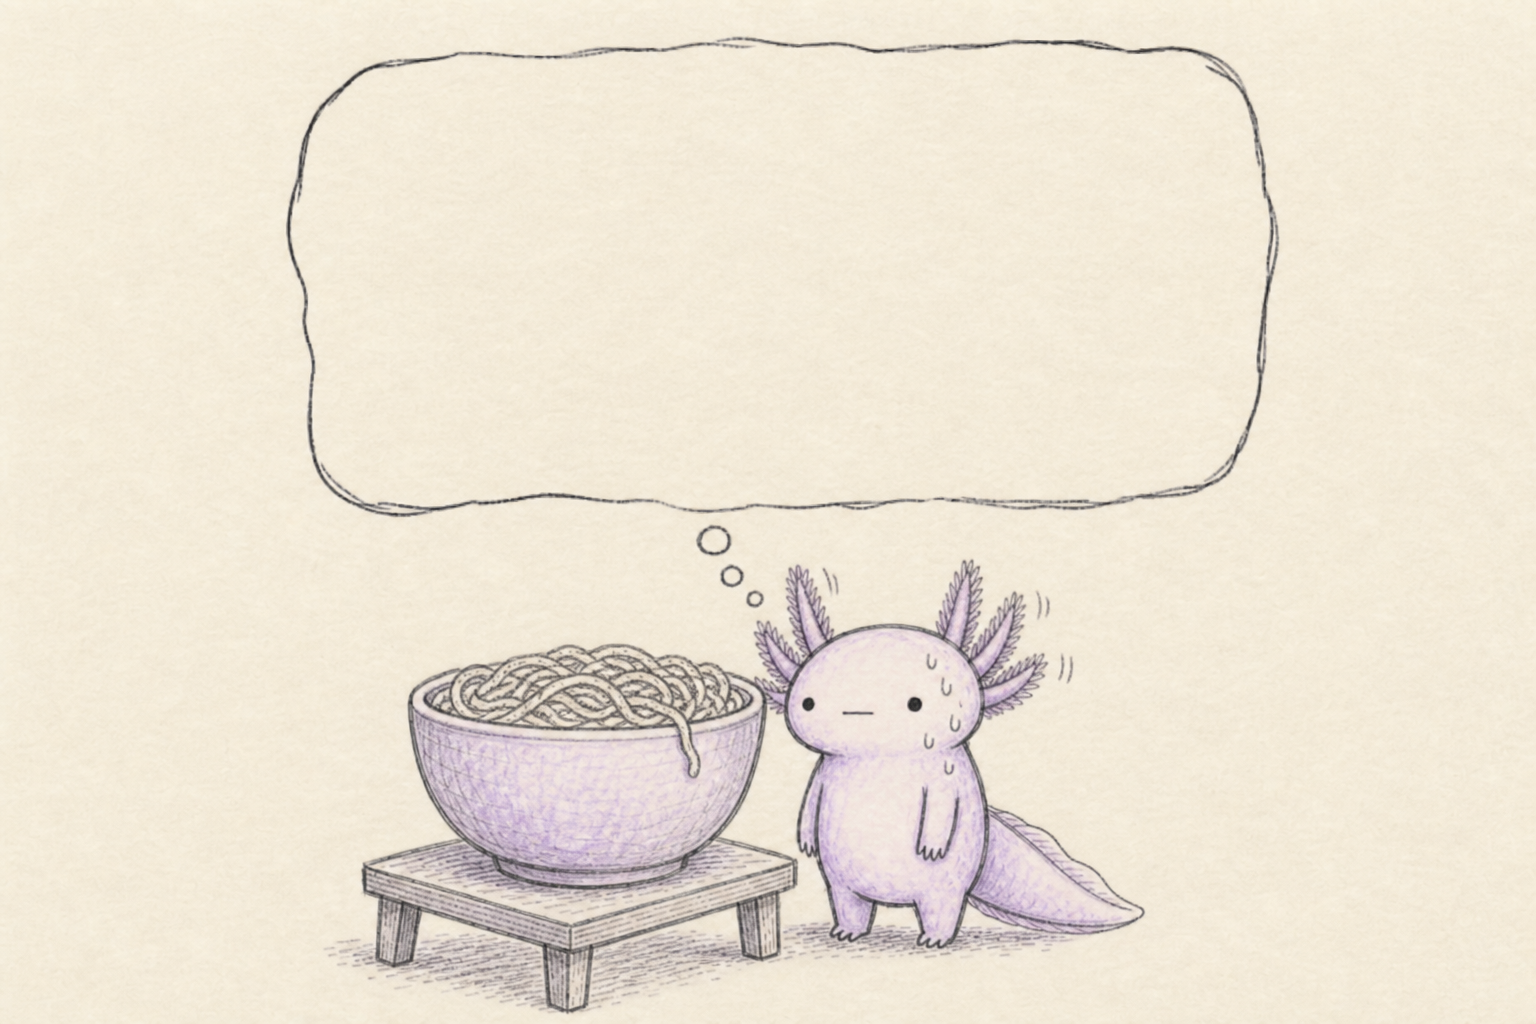
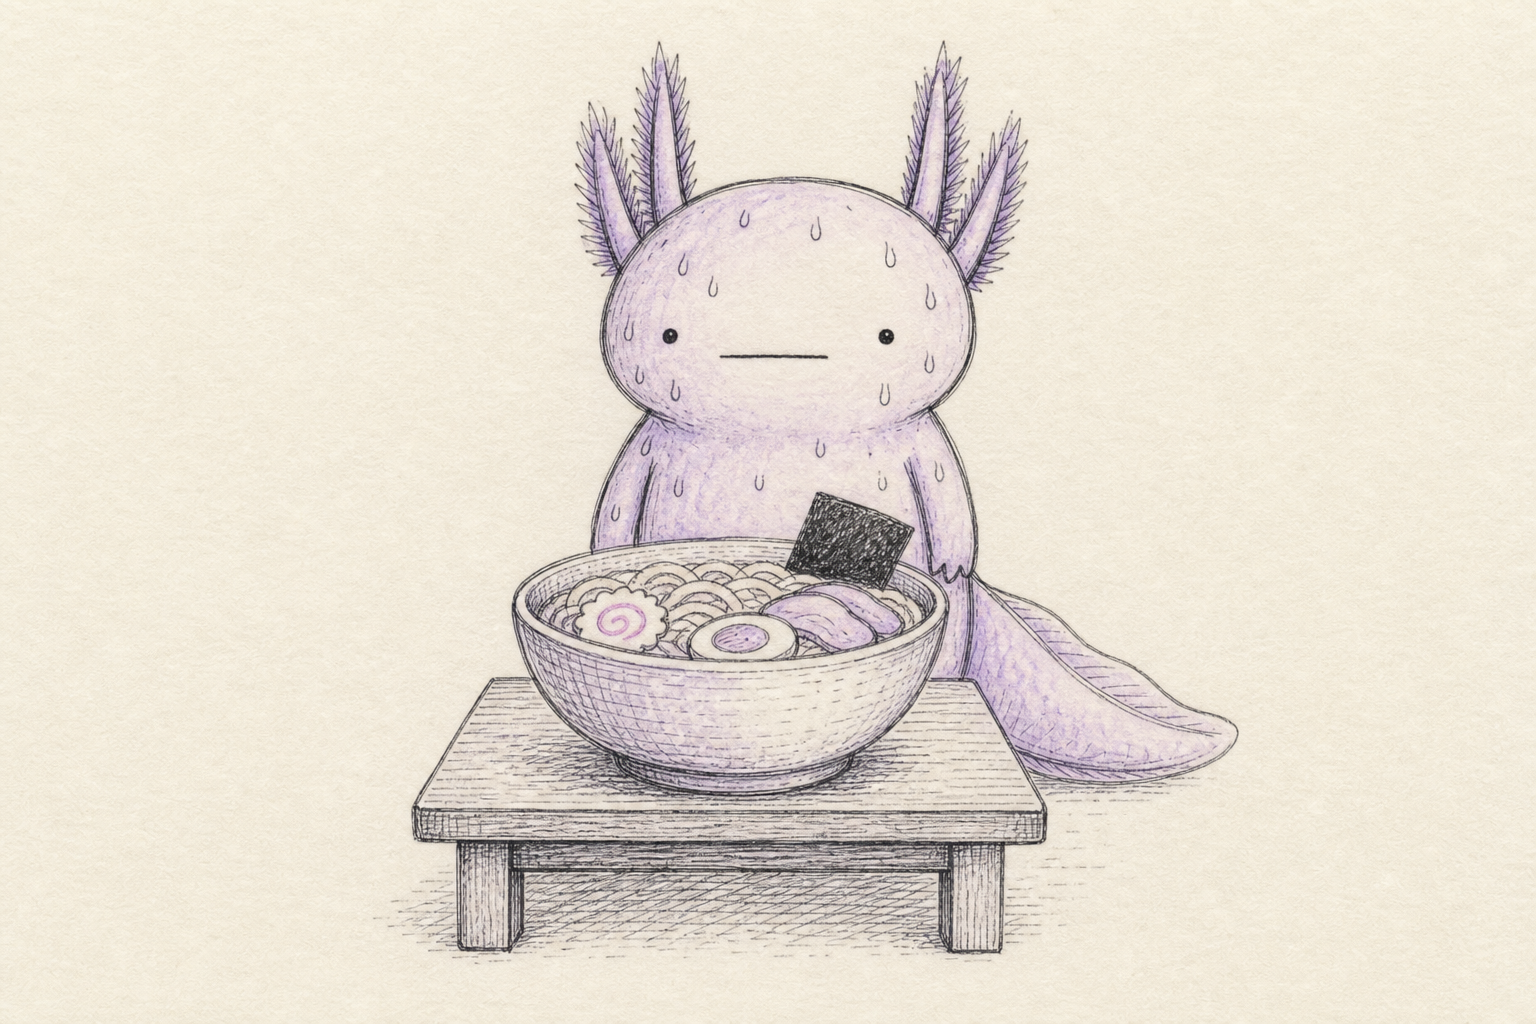
Rebuild canonical standing pose without thought cloud
Standard 標準立姿: centered on paper, locked face, no cloud.
Thought cloud optional only for 發呆 (day1). Regenerate PNGs and docs.

diff --git a/docs/axo-layout-template-zh-TW.md b/docs/axo-layout-template-zh-TW.md
@@ -1,68 +1,62 @@
-# Axo 官方構圖模板（所有貼文必用）
+# Axo 構圖模板
 
-**生效：** 2026-06-01 · **狀態：** 鎖定，不可更換版型
+**更新：** 2026-06-01
 
 ---
 
-## 唯一標準構圖
-
-每一則 IG（含 Day 2、Day 3…）都必須使用 **同一張畫紙框架**：
-
-```
-┌─────────────────────────┐
-│   空白思考雲（必空）      │  ← 上方約 40%，雲內無字、無 ...
-│                         │
-├─────────────────────────┤
-│   Axo（偏小，在下方）     │  ← 下方約 60%，只改姿勢／道具
-│   + 場景（麵碗等）        │
-└─────────────────────────┘
-```
+## A. 標準立姿（預設 · 多數貼文）
 
 **主檔（視覺真源）：**  
 `assets/axo/pen/png/axo-pen-canonical.png`  
 `assets/axo/pen/axo-pen-canonical.svg`
 
-**布局參考（封存）：** `png/reference/axo-pen-day1-layout-master.png`
+```
+┌─────────────────────────┐
+│      畫紙底色            │
+│   Axo 居中、標準立姿      │  ← 無思考雲
+│   鎖定眼嘴               │
+└─────────────────────────┘
+```
+
+- 用於：介紹 Axo、Day 2 麵碗、多數日常帖  
+- **臉：** 見 [`axo-face-locked-zh-TW.md`](./axo-face-locked-zh-TW.md)  
+- 新姿勢：複製 canonical，**只改**身體／道具，不改眼嘴、不加雲（除非選 B）
 
 ---
 
-## 臉部規格（永久鎖定）
+## B. 發呆帖（可選 · 有空白思考雲）
 
-| 部位 | 規格 |
-|------|------|
-| 眼睛 | 極小黑點、**眼距偏寬** — 見 [`axo-face-locked-zh-TW.md`](./axo-face-locked-zh-TW.md) |
-| 嘴巴 | **短直橫線 `_`**（所有貼文相同，含介紹、發呆、Day 2） |
+**僅在需要「發呆」視覺時使用，非每篇必備。**
 
-**禁止** 改用 `w` 嘴、張口、或其他嘴型（除非品牌方書面解禁）。
+`assets/axo/pen/axo-pen-day1-blank-stare.svg` · `png/axo-pen-day1.png`
+
+```
+┌─────────────────────────┐
+│   空白思考雲（必空）      │
+│   Axo 偏小在下方          │
+└─────────────────────────┘
+```
+
+- 雲內：**無字、無 `...`**  
+- 臉：與標準立姿**相同**（鎖定眼嘴）
 
 ---
 
 ## 如何做新的一篇
 
-1. 複製 `axo-pen-canonical.svg`  
-2. **保留**畫紙 + 空白思考雲（勿刪、勿加字進雲裡）  
-3. **只改**下方 `#axo-slot` 區塊：姿勢、道具、表情（汗、鰓直立等）  
-4. 用 `axo-pen-canonical.png` 當 reference 出 PNG，**禁止**換成居中大圖構圖  
-
----
-
-## 檔案對照
-
-| 檔案 | 用途 |
-|------|------|
-| `axo-pen-canonical.*` | 官方模板 · 介紹 Axo、預設貼文 |
-| `axo-pen-day1-blank-stare.svg` | 發呆帖（`_` 嘴） |
-| `axo-pen-day1.png` | 發呆帖 PNG |
-| `axo-pen-day2.png` | Day 2 麵碗（同模板） |
+1. 預設從 **`axo-pen-canonical`** 出發  
+2. Reference `axo-pen-canonical.png` + 鎖定臉  
+3. 只改姿勢／場景；**色票**見 color-consistency 文件  
+4. 若要發呆梗 → 改用 **B** 模板，不要強制每篇加雲  
 
 ---
 
 ## 禁止
 
-- ❌ 角色居中填滿畫面（舊版標準立姿構圖）  
-- ❌ 沒有思考雲的貼文  
-- ❌ 思考雲裡寫字（字在 caption，不在雲裡）  
+- ❌ 更改鎖定眼嘴  
+- ❌ 漂移畫紙色／水彩色  
+- ❌ 思考雲裡寫字  
 
 ---
 
-*色票見 [`axo-color-consistency-zh-TW.md`](./axo-color-consistency-zh-TW.md)*
+*色票：[`axo-color-consistency-zh-TW.md`](./axo-color-consistency-zh-TW.md)*

diff --git a/docs/axo-face-locked-zh-TW.md b/docs/axo-face-locked-zh-TW.md
@@ -13,13 +13,13 @@
 | **嘴巴** | **一條短直橫線** `_`（水平、居中、無弧度） | `w` 嘴、張口、橢圓嘴、牙齒 |
 | **表情** | 死板、空白、發呆、無情緒 | 笑、哭、驚訝 o 嘴（除非品牌方書面解禁） |
 
-### SVG 數值（400×640 模板內 Axo 頭部）
+### SVG 數值（標準立姿 400×520）
 
 | 元素 | 值 |
 |------|-----|
-| 左眼 | `cx="170" cy="164" r="2.5"` |
-| 右眼 | `cx="230" cy="164" r="2.5"` |
-| 嘴 | `M 192 200 L 208 200` stroke 2px |
+| 左眼 | `cx="170" cy="168" r="2.5"` |
+| 右眼 | `cx="230" cy="168" r="2.5"` |
+| 嘴 | `M 192 204 L 208 204` stroke 2px |
 
 > 換姿勢時**只移動身體**，眼嘴相對頭部位置與形狀不變。
 
@@ -27,8 +27,9 @@
 
 ## 與構圖模板關係
 
-- **版型：** 永遠「空白思考雲 + 下方小 Axo」（見 layout template）  
-- **臉：** 永遠本文件眼嘴 — **Post 1 介紹、Post 2 發呆、Day 2 麵碗…全部相同**
+- **標準立姿：** 居中、**無思考雲**（見 layout template A）  
+- **發呆帖（可選）：** 可加空白思考雲（模板 B）  
+- **臉：** 所有貼文永遠本文件眼嘴
 
 ---
 

diff --git a/docs/axo-color-consistency-zh-TW.md b/docs/axo-color-consistency-zh-TW.md
@@ -13,7 +13,7 @@
 **主參考檔（視覺真源）：**  
 `assets/axo/pen/png/axo-pen-canonical.png`（**布局 + 鎖定眼嘴**，見 `axo-face-locked-zh-TW.md`）
 
-**構圖規則（必守）：** [`axo-layout-template-zh-TW.md`](./axo-layout-template-zh-TW.md)
+**構圖：** 預設標準立姿（無思考雲）— [`axo-layout-template-zh-TW.md`](./axo-layout-template-zh-TW.md)
 
 ---
 
@@ -50,11 +50,14 @@
 
 ---
 
-## 五、構圖模板（已鎖定，不可變）
+## 五、構圖
 
-**所有貼文唯一版型：** 上方空白思考雲 + 下方偏小 Axo（見 layout template 文件）。
+| 類型 | 說明 |
+|------|------|
+| **標準立姿** | 居中、畫紙、**無思考雲** — 多數貼文 |
+| **發呆（可選）** | 可加空白思考雲 — 僅特定帖 |
 
-構圖不可變；**顏色與筆觸不可變**；僅可改下方 Axo 的姿勢／道具。
+**顏色與筆觸不可變**；眼嘴不可變。
 
 ---
 

diff --git a/README.md b/README.md
@@ -9,8 +9,8 @@
 
 ## Axo (mascot)
 
-**主視覺 v3：** [`assets/axo/pen/png/axo-pen-canonical.png`](assets/axo/pen/png/axo-pen-canonical.png)  
-**構圖：** [`docs/axo-layout-template-zh-TW.md`](docs/axo-layout-template-zh-TW.md) · **眼嘴鎖定：** [`docs/axo-face-locked-zh-TW.md`](docs/axo-face-locked-zh-TW.md)
+**標準立姿（主檔）：** [`assets/axo/pen/png/axo-pen-canonical.png`](assets/axo/pen/png/axo-pen-canonical.png) — 畫紙、鎖定眼嘴、**無思考雲**  
+**發呆帖（可選雲）：** `axo-pen-day1.png` · **構圖：** [`docs/axo-layout-template-zh-TW.md`](docs/axo-layout-template-zh-TW.md) · **眼嘴：** [`docs/axo-face-locked-zh-TW.md`](docs/axo-face-locked-zh-TW.md)
 
 v2 平面向量（封存）：[`assets/axo/`](assets/axo/)
 

diff --git a/docs/axo-style-v3-pen-zh-TW.md b/docs/axo-style-v3-pen-zh-TW.md
@@ -20,7 +20,7 @@
 | **線條** | 墨色 `#2A2420`，**略歪、略抖**，線寬約 2.5–3px，有輕重 |
 | **上色** | 淡薰衣草**水彩暈染** `#E8D8E8`（opacity ~55%），不是實心向量填色 |
 | **眼與嘴** | **永久鎖定** → [`axo-face-locked-zh-TW.md`](./axo-face-locked-zh-TW.md) |
-| **官方主檔** | `png/axo-pen-canonical.png`（空白思考雲 + 下方小 Axo + **鎖定臉**） |
+| **官方主檔** | `png/axo-pen-canonical.png`（**標準立姿** · 畫紙 · **鎖定臉** · 無思考雲） |
 | **修改方式** | 以主檔為 reference **只改指定部位**（如只縮眼、只加思考雲），禁止整張換風格 |
 | **腮紅** | 不要 |
 | **頭身** | 三頭身 |

diff --git a/docs/ig-launch-zh-TW.md b/docs/ig-launch-zh-TW.md
@@ -28,7 +28,7 @@
 |------|------|
 | **用戶名** | `@dozeify` 或 `@dozeify.axo`（越短越好記） |
 | **顯示名稱** | Dozeify · Axo |
-| **大頭貼** | `assets/axo/pen/axo-pen-canonical.svg` 或 `pen/png/axo-pen-canonical.png` 裁 320×320（**保留畫紙色**） |
+| **大頭貼** | `pen/png/axo-pen-canonical.png` 裁 Axo 臉部 320×320（標準立姿、無雲） |
 | **Bio（繁中範例）** | 再生式休息｜Axo 什麼都沒做，但你可以。🫠 |
 | **Bio（英一句）** | Regenerative rest. Doing nothing, together. |
 | **連結** | 先不放商店；可放 Linktree「即將推出」或留空 |

diff --git a/docs/ig-captions-zh-TW.md b/docs/ig-captions-zh-TW.md
@@ -46,7 +46,7 @@ Glad you're here. 🫠
 
 ### 配圖
 
-`assets/axo/pen/png/axo-pen-canonical.png`（標準立姿 · 畫紙）
+`assets/axo/pen/png/axo-pen-canonical.png`（**標準立姿** · 畫紙 · 鎖定眼嘴 · **無思考雲**）
 
 ---
 
